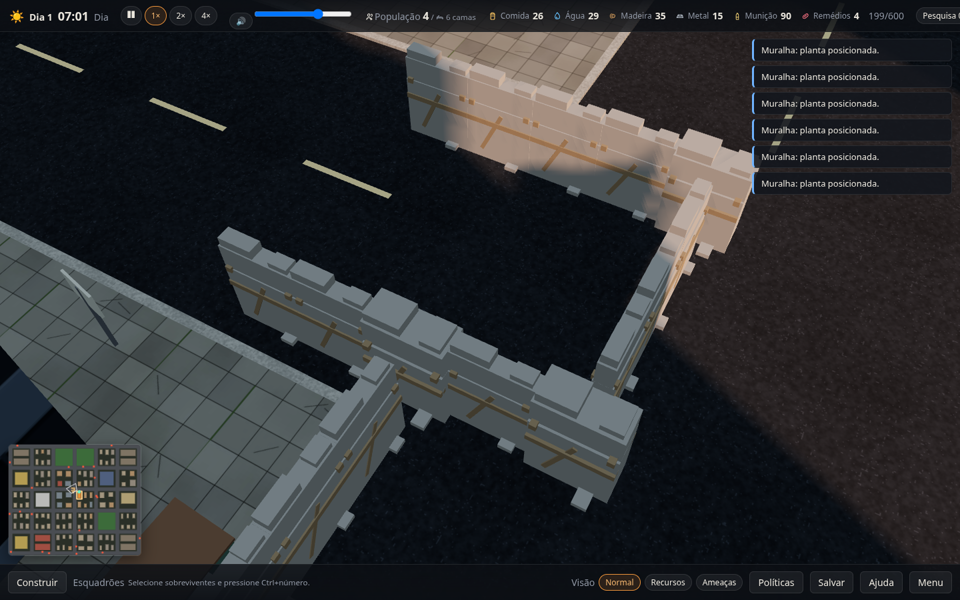
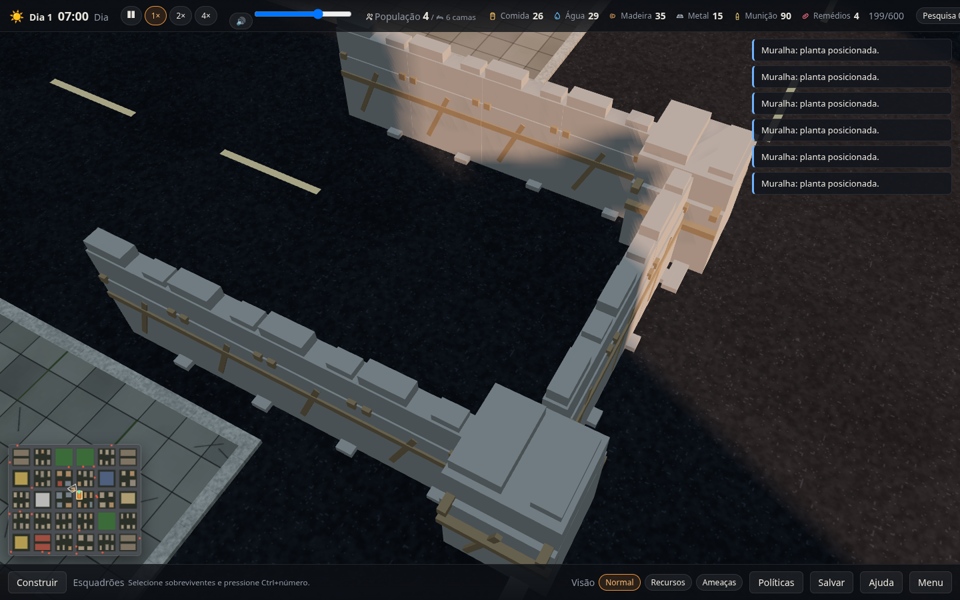
[FIX] renderer: the junction block fills its cell
The corner block was scaled by the cell size instead of the ratio between the cell and the
slab: 2x on a 0.5 m slab gives a 1 m block in a 2 m cell, which left exactly the half-metre
notch the block was added to close. The scale is now cell/slab (4x), computed by
cornerBlockScale and unit-tested, and only walls get a pier — scaling a gate four times on
its thickness would stretch its bars into slabs.

diff --git a/packages/renderer/src/GameRenderer.ts b/packages/renderer/src/GameRenderer.ts
@@ -4,7 +4,7 @@ import { BUILDING_TYPES, INFECTED, STRUCTURES, bagTotal, type StructureKind } fr
 import type { Simulation, EntityId } from "@afterfall/core";
 import { lerp } from "@afterfall/shared";
 import { RtsCamera } from "./camera";
-import { axialYaw } from "./structureLayout";
+import { axialYaw, cornerBlockScale } from "./structureLayout";
 import { BuildingBatch, outlineOf } from "./buildingBatch";
 import { buildCityGround, TEXTURED_TINT, type GroundMaterials } from "./cityMeshes";
 import { loadArtTextures, type ArtTextures } from "./textures";
@@ -1028,8 +1028,10 @@ export class GameRenderer {
       // A junction is a solid block for the whole cell. Drawing both slabs crossed left
       // two dead arms poking a metre out of every corner, which read as battlements; the
       // cell block fills the four quadrants the slabs cannot reach.
-      const corner = axial && isCorner(s);
-      const placements: { yaw: number; thick: number }[] = [{ yaw, thick: corner ? def.size * cell : 1 }];
+      // Only walls become a pier: scaling a gate four times on its thickness would
+      // stretch its bars into slabs.
+      const corner = s.kind === "wall" && isCorner(s);
+      const placements: { yaw: number; thick: number }[] = [{ yaw, thick: corner ? cornerBlockScale(size) : 1 }];
       const hpFrac = e.health ? e.health.hp / e.health.max : 1;
       tmpC.setHex(0xffffff);
       if (hpFrac < 0.99) tmpC.lerp(new THREE.Color(0x8a2a20), (1 - hpFrac) * 0.8);

diff --git a/packages/renderer/tests/structureLayout.test.ts b/packages/renderer/tests/structureLayout.test.ts
@@ -1,5 +1,5 @@
 import { describe, expect, it } from "vitest";
-import { axialYaw } from "../src/structureLayout";
+import { axialYaw, cornerBlockScale } from "../src/structureLayout";
 
 describe("wall and gate orientation", () => {
   it("keeps the authored (east-west) orientation when the line runs that way", () => {
@@ -18,5 +18,14 @@ describe("wall and gate orientation", () => {
     expect(axialYaw(false, false, false, false)).toBe(0);
     // Two neighbours on the short axis of a corner still count as a corner.
     expect(axialYaw(true, false, true, false)).toBe(0);
+  });
+});
+
+describe("junction block", () => {
+  it("scales the slab so it fills a cell, not to the cell size", () => {
+    // The slab is 0.5 m thick; a 2 m cell needs 4x. Passing the cell size itself (2) left
+    // half a metre of notch on each side, which was the bug this test exists for.
+    expect(cornerBlockScale(2)).toBeCloseTo(4, 6);
+    expect(0.5 * cornerBlockScale(2)).toBeCloseTo(2, 6);
   });
 });

diff --git a/packages/renderer/src/structureLayout.ts b/packages/renderer/src/structureLayout.ts
@@ -12,3 +12,16 @@ export function axialYaw(north: boolean, south: boolean, east: boolean, west: bo
   const alongX = (east ? 1 : 0) + (west ? 1 : 0);
   return alongZ > alongX ? Math.PI / 2 : 0;
 }
+
+/** Thickness of the wall slab in `art/structures/wall.glb`, in metres. */
+export const WALL_THICKNESS = 0.5;
+
+/**
+ * Scale for the long axis of a junction block, so it fills its whole cell. The factor is
+ * the cell size divided by the slab thickness: a cell is 2 m and the slab is 0.5 m, so the
+ * block needs 4x, not the cell size itself — the first version passed 2 and left half a
+ * metre of notch on either side, which is exactly the joint the block was meant to close.
+ */
+export function cornerBlockScale(cellSize: number): number {
+  return cellSize / WALL_THICKNESS;
+}
